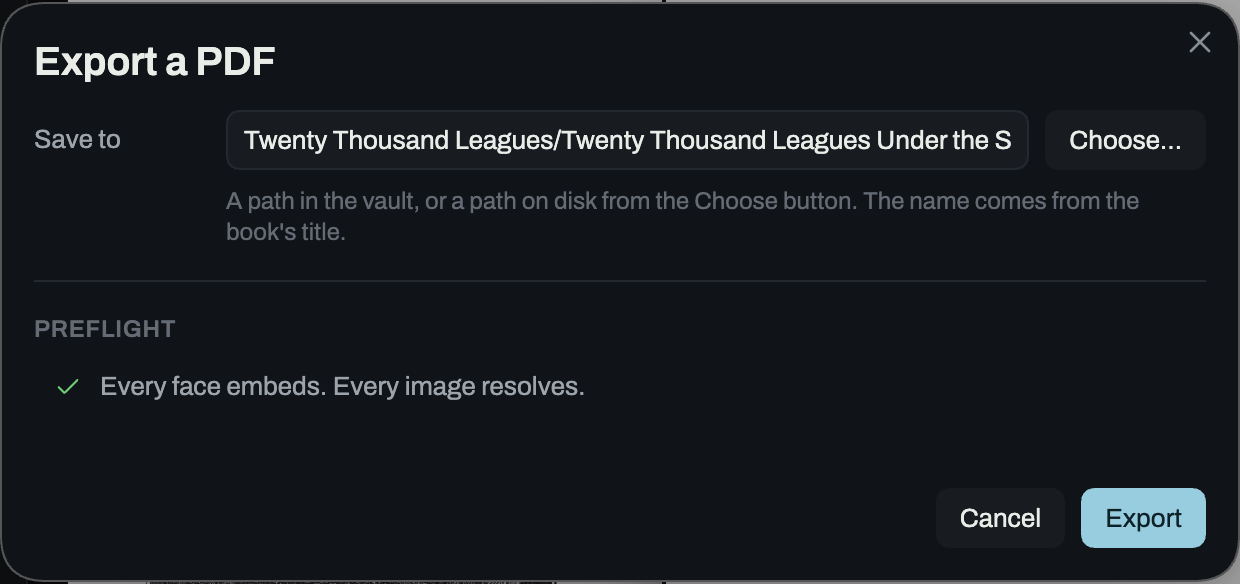
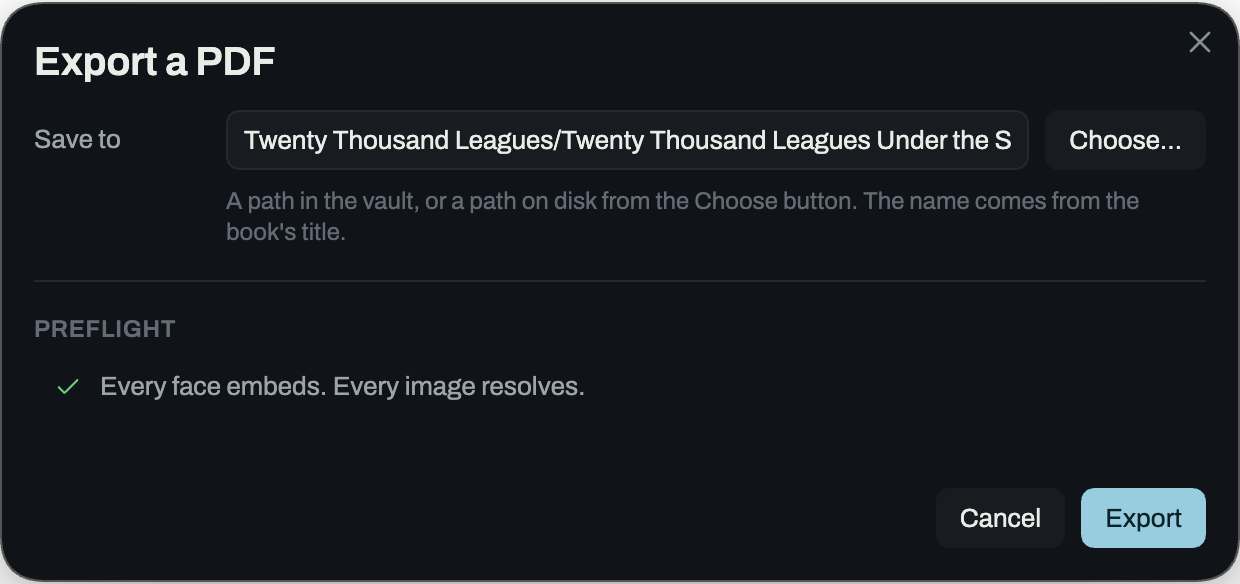
Photograph the export dialog alone, with nothing of the window behind its corners
Claude-Session: https://claude.ai/code/session_011HYbE9mvgkiHA3ScNdgzJ3

Changed region(s): [[0.0, 0.9555, 1.0, 1.0], [0.0, 0.0, 1.0, 0.0616]]

diff --git a/e2e/harness/obsidian.ts b/e2e/harness/obsidian.ts
@@ -105,6 +105,7 @@ const CHROME = {
   notice: ".notice",
   status: ".status-bar",
   tooltip: ".tooltip",
+  modal: ".modal",
 };
 
 export type Side = "left" | "right";
@@ -448,6 +449,20 @@ export class Obsidian {
   async unhovered(): Promise<void> {
     await this.page.mouse.move(0, 0);
     await this.hold(`${HOVERED} { visibility: hidden }`);
+  }
+
+  /**
+   * Hides everything but the open modal and paints nothing behind it,
+   * for a picture of a dialog alone. The modal's rounded corners come
+   * out transparent rather than showing the window under them.
+   */
+  async alone(): Promise<void> {
+    await this.page.mouse.move(0, 0);
+    await this.hold(
+      "body * { visibility: hidden !important }" +
+        `${CHROME.modal}, ${CHROME.modal} * { visibility: visible !important }` +
+        "html, body { background: transparent !important }",
+    );
   }
 
   private async hold(css: string): Promise<void> {

diff --git a/e2e/shots.spec.ts b/e2e/shots.spec.ts
@@ -371,9 +371,14 @@ test("the export picture is the dialog on the sample book, with the preflight pa
     await settled(site.book);
     await exporting.open();
     await exporting.reaches("ready");
-    await site.obsidian.unhovered();
-    await expect(exporting.dialog).toHaveScreenshot(`export-${scheme}.png`);
+    await site.obsidian.alone();
+    await expect(exporting.dialog).toHaveScreenshot(`export-${scheme}.png`, {
+      omitBackground: true,
+    });
     await exporting.close();
+    // The book is hidden while the dialog is photographed, and the next
+    // scheme waits on its pages being visible.
+    await site.obsidian.moving();
   }
 
   await site.obsidian.moving();
